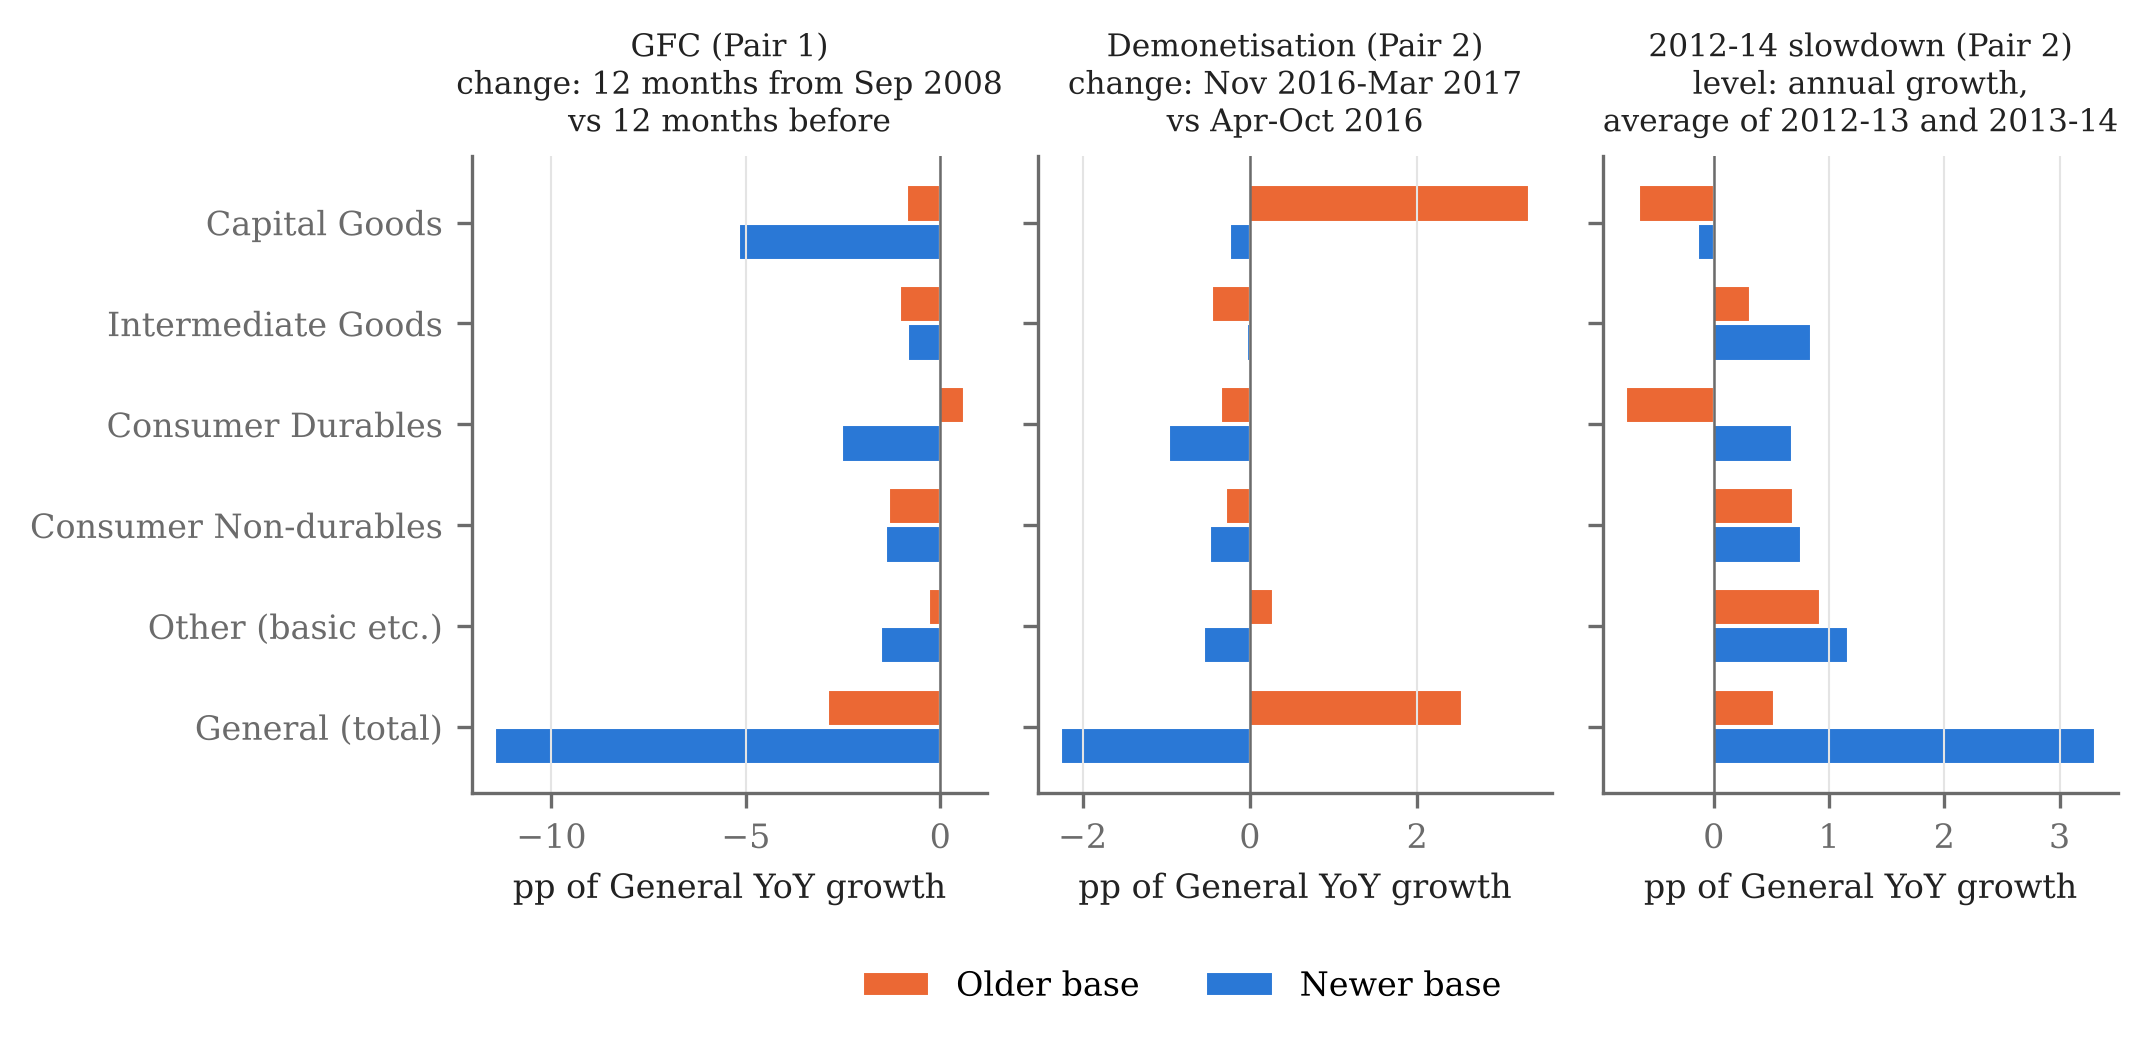
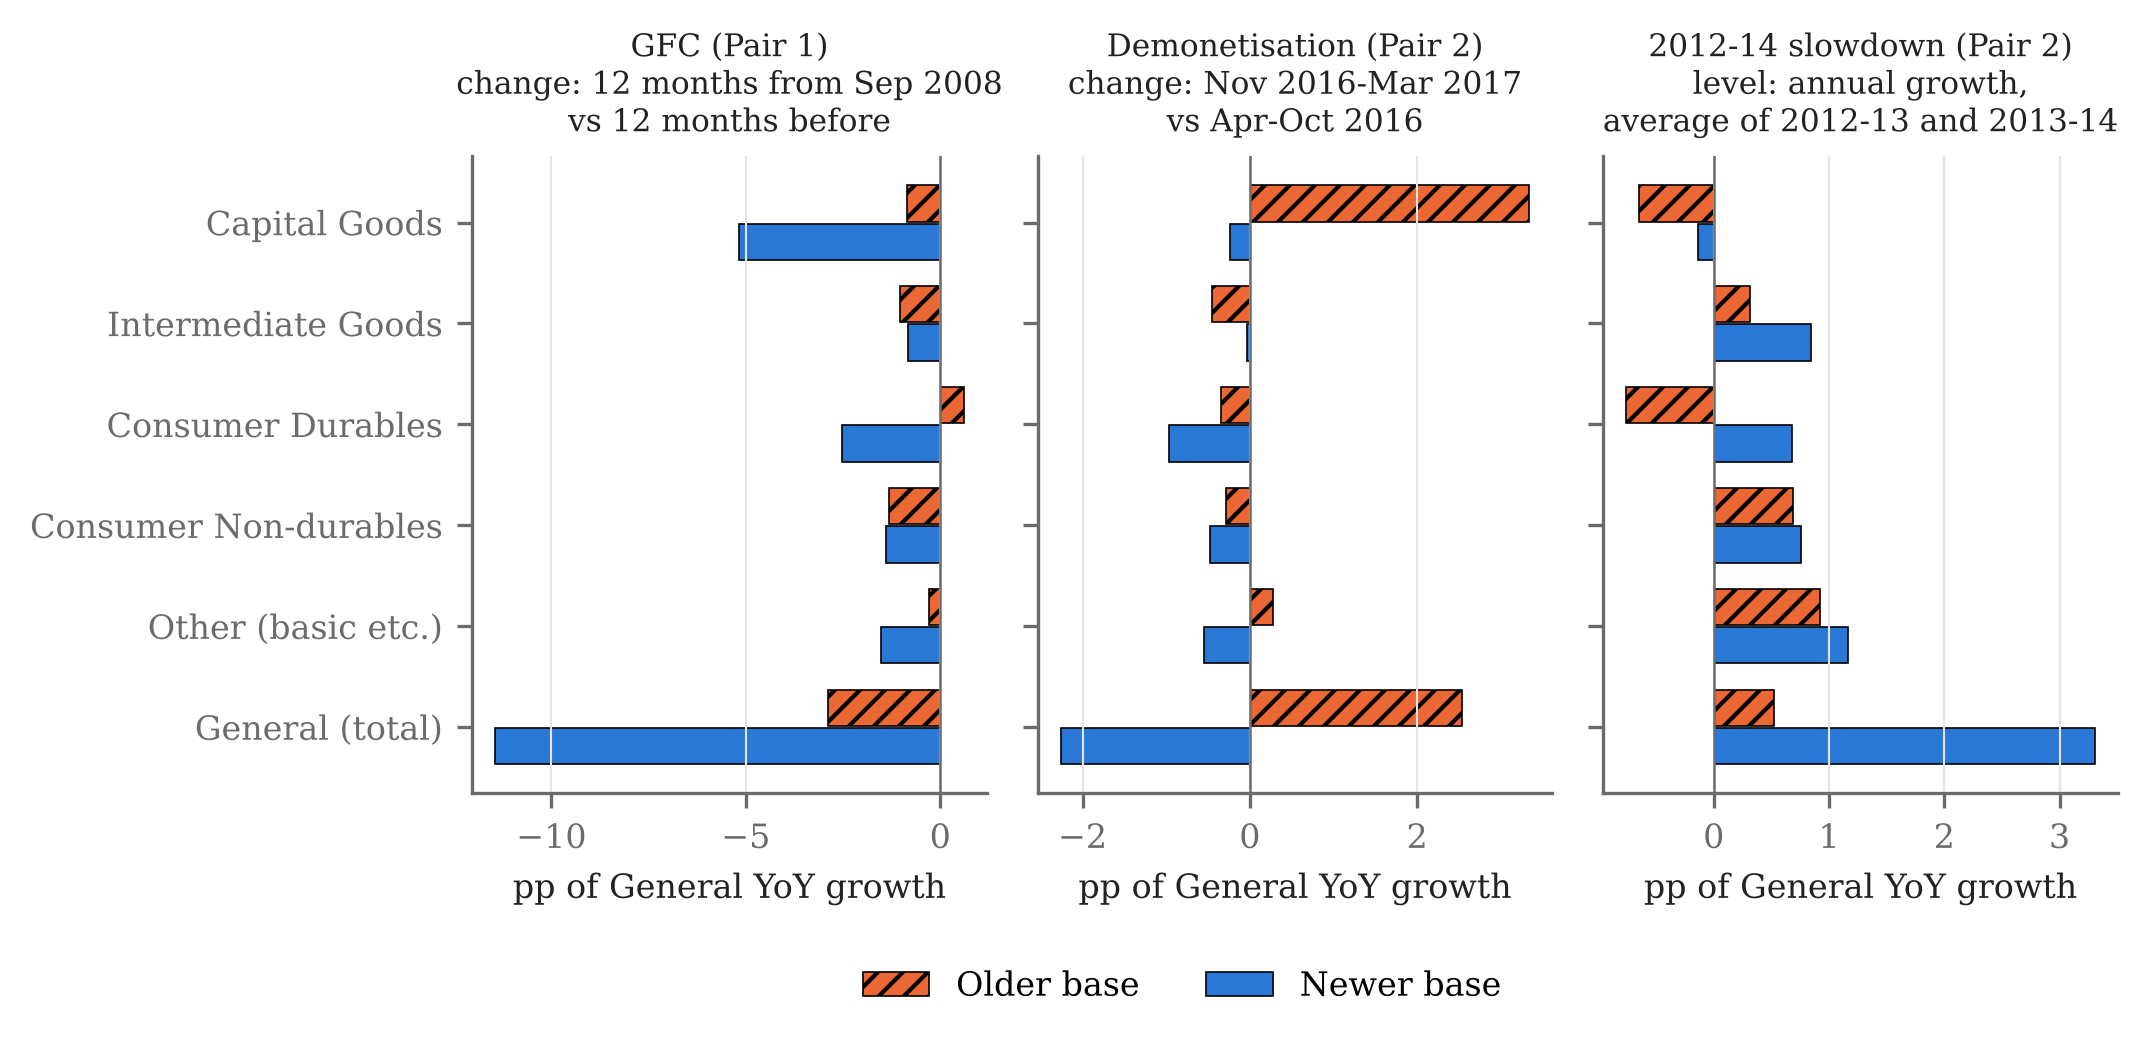
Final changes

diff --git a/pipeline/charts_reliability.py b/pipeline/charts_reliability.py
@@ -37,17 +37,21 @@ for ax, pair in zip(axes, ['Pair 1', 'Pair 2', 'Pair 3']):
         if pair == 'Pair 3':
             ax.plot(r['R'], yi, 'o', color='white', mec=GREY, mew=1.2, ms=5.5)
             continue
-        c = {'readable': NEW, 'undetermined': GREY, 'unreadable': OLD}[r['tier'].split(' (')[0]]
-        ax.plot([r['lo'], r['hi']], [yi, yi], color=c, lw=1.3, alpha=0.7, solid_capstyle='round')
-        ax.plot(r['R'], yi, 'o', color=c, ms=5.5, mec='white', mew=0.8)
+        tier = r['tier'].split(' (')[0]
+        c = {'readable': NEW, 'undetermined': GREY, 'unreadable': OLD}[tier]
+        # Second encoding for greyscale print: readable = square marker and solid line,
+        # undetermined = circle and dashed line.
+        mk, ls = ('s', '-') if tier == 'readable' else ('o', (0, (3, 2)))
+        ax.plot([r['lo'], r['hi']], [yi, yi], color=c, lw=1.3, alpha=0.8, ls=ls, solid_capstyle='round')
+        ax.plot(r['R'], yi, mk, color=c, ms=5.5, mec='black' if tier == 'readable' else 'white', mew=0.6)
     ax.set_yticks(y)
     ax.set_yticklabels([u.replace('Consumer ', 'Cons. ') for u in ORDER])
     ax.set_xlim(0, 2.7)
     ax.set_title(titles[pair], fontsize=8, color=INK)
     ax.grid(axis='x', color=GRID, lw=0.5)
     ax.set_xlabel('disagreement ratio R')
-H = [plt.Line2D([], [], marker='o', color=NEW, ms=5, label='Readable (Holm-adjusted)'),
-     plt.Line2D([], [], marker='o', color=GREY, ms=5, label='Undetermined'),
+H = [plt.Line2D([], [], marker='s', color=NEW, mec='black', mew=0.6, ms=5, ls='-', label='Readable (Holm-adjusted)'),
+     plt.Line2D([], [], marker='o', color=GREY, ms=5, ls=(0, (3, 2)), label='Undetermined'),
      plt.Line2D([], [], marker='o', color='white', mec=GREY, mew=1.2, ls='', ms=5, label='Point estimate only')]
 fig.legend(handles=H, loc='lower center', ncol=3, frameon=False, bbox_to_anchor=(0.55, -0.02))
 fig.tight_layout(rect=(0, 0.07, 1, 1))
@@ -65,8 +69,9 @@ for ax, (ep, win, title) in zip(axes, PANELS):
     d = E[(E['episode'] == ep) & (E['window'] == win)].set_index('unit').reindex(UNITS)
     y = np.arange(len(UNITS))[::-1]
     ax.axvline(0, color=MUTED, lw=0.6)
-    ax.barh(y + 0.19, d['old'], height=0.36, color=OLD, label='Older base', edgecolor='white', linewidth=0.5)
-    ax.barh(y - 0.19, d['new'], height=0.36, color=NEW, label='Newer base', edgecolor='white', linewidth=0.5)
+    # Older base hatched so the two bases differ in greyscale print as well as in colour.
+    ax.barh(y + 0.19, d['old'], height=0.36, color=OLD, label='Older base', edgecolor='black', linewidth=0.4, hatch='////')
+    ax.barh(y - 0.19, d['new'], height=0.36, color=NEW, label='Newer base', edgecolor='black', linewidth=0.4)
     ax.set_yticks(y)
     ax.set_yticklabels(['Other (basic etc.)' if u == 'Other' else ('General (total)' if u == 'General' else u) for u in UNITS])
     ax.set_title(title, fontsize=7.5, color=INK)

diff --git a/README.md b/README.md
@@ -103,7 +103,7 @@ India, and are redistributed here for reproducibility; please cite the original 
 
 ## Paper draft
 
-The current manuscript is `IIP_rebasing_paper_16.docx` (Springer LNCS layout). From v12 onwards the
+The current manuscript is `IIP_rebasing_paper_18.docx` (Springer LNCS layout). From v12 onwards the
 paper is descriptive: it reports 95% block-bootstrap intervals for each overlap and no longer uses the
 pre-specified tests or pooling; readability is the per-overlap Holm-adjusted tier from `tests.py`. `tests_spec.md`, `pipeline/tests.py`
 and `results/RESULTS_v2.md` are kept as the archived exploratory plan; the paper quotes from them only
@@ -120,6 +120,8 @@ Where the numbers in the current paper come from:
 | Contrast with 3- and 12-month windows | `results/window_contrast.csv` (`window_contrast.py`) |
 | Leader agreement, bounds, reversals | `results/tests.csv`, rows `H3b`, `H3c`, `H3-other` |
 | Leader agreement against independent choice | `results/diagnosis_summary.csv`, `leader_same` and `leader_same_chance` |
+| Circular-shift test of leader agreement (p = 0.40, 0.20) | `results/tests.csv`, rows `H3a` |
+| Geometric-mean ratios (Section 6.1) | `results/tests.csv`, rows `H2-geo` and `H1a-geo` |
 | Weight vs data shares | `results/sources_*.csv` |
 
 `paper/build_paper.py` and `paper/render.js` build an earlier draft (v9) and do not produce the
